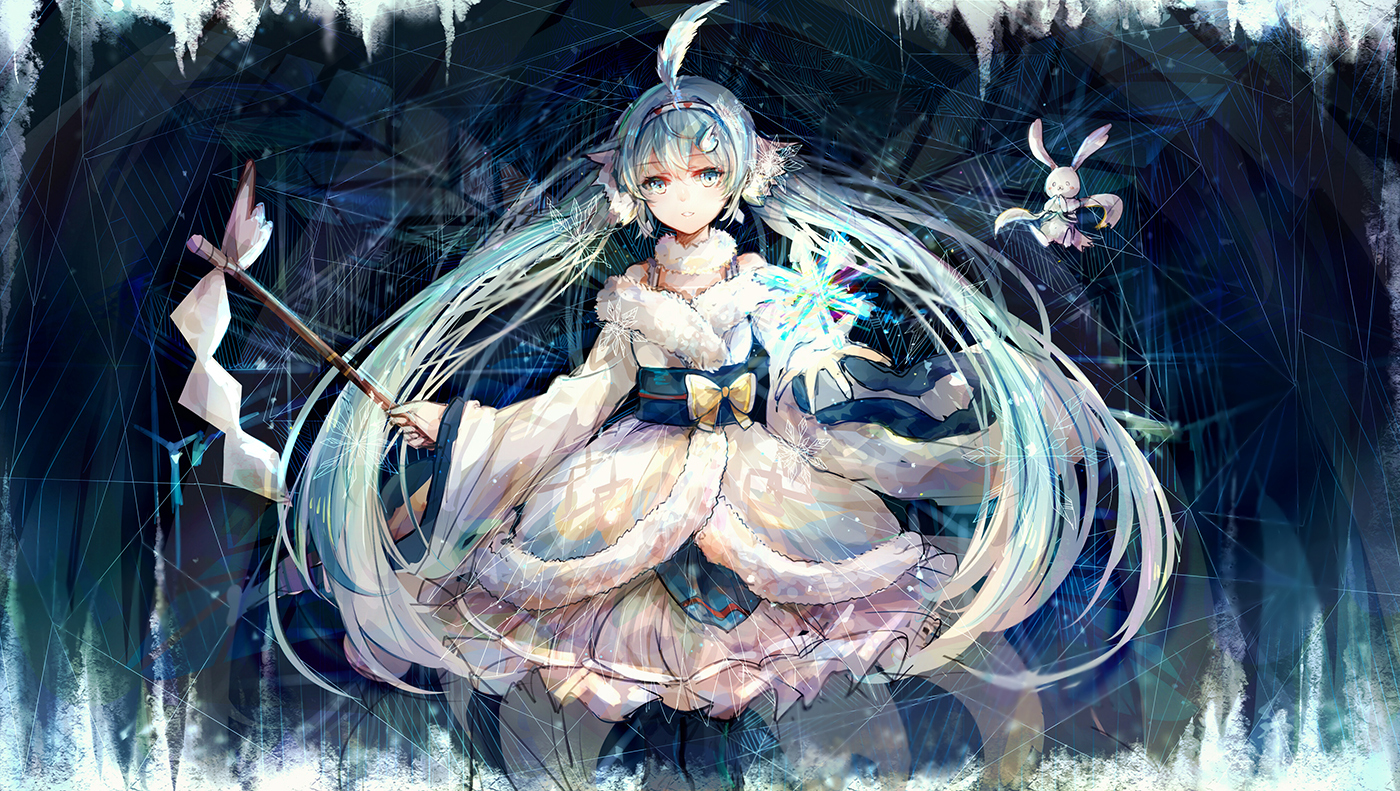
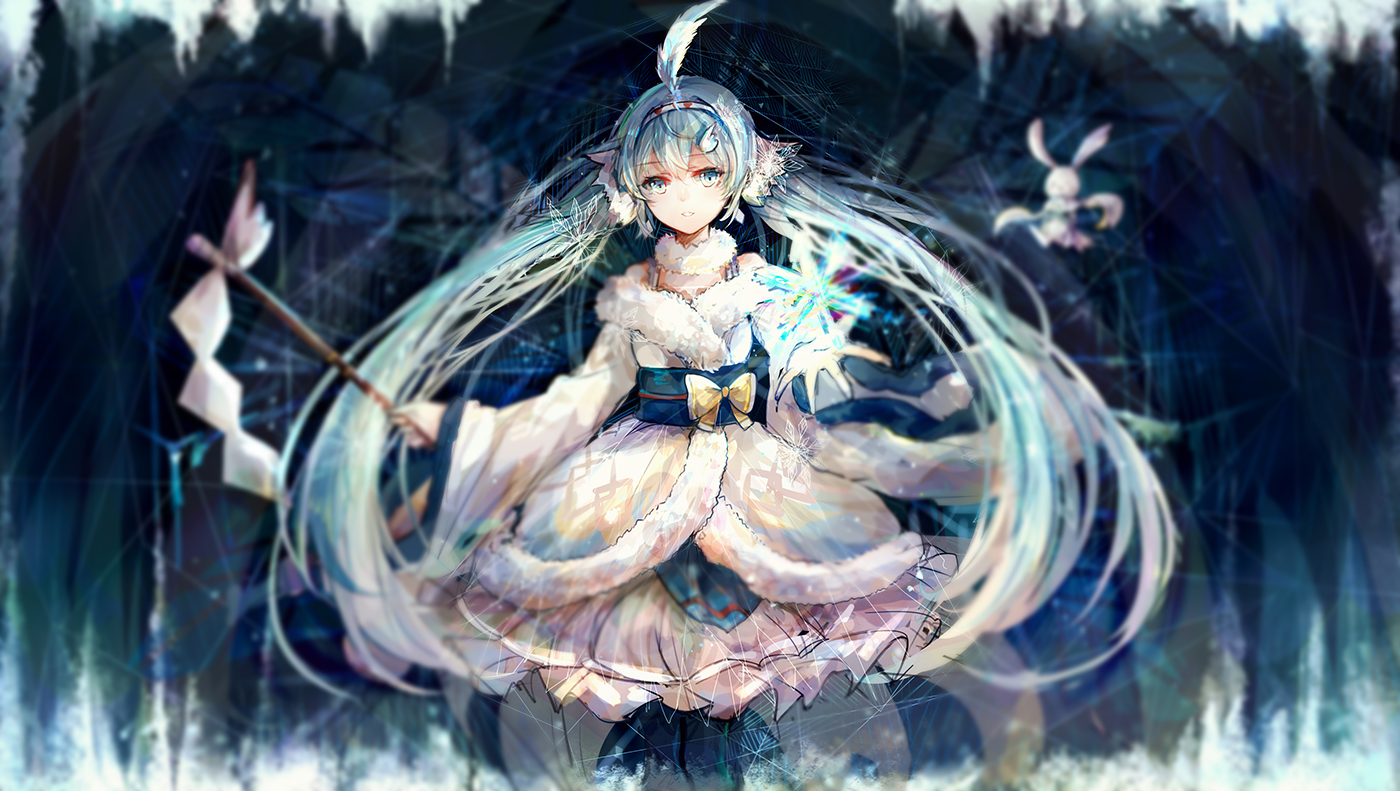
Site updated: 2018-06-23 22:50:15

diff --git a/css/main.css b/css/main.css
@@ -1996,7 +1996,7 @@ img:hover {
   width: 4px;
   height: 4px;
   border-radius: 50%;
-  background: #57ffd7;
+  background: #3e869a;
 }
 .links-of-blogroll {
   font-size: 13px;
@@ -2836,7 +2836,7 @@ embed {
 }
 @media screen and (min-width: 1200px) {
   body {
-    background-image: url("/images/4.jpg");
+    background-image: url("/images/5.jpg");
     background-repeat: no-repeat;
     background-attachment: fixed;
     background-position: 50% 50%;
